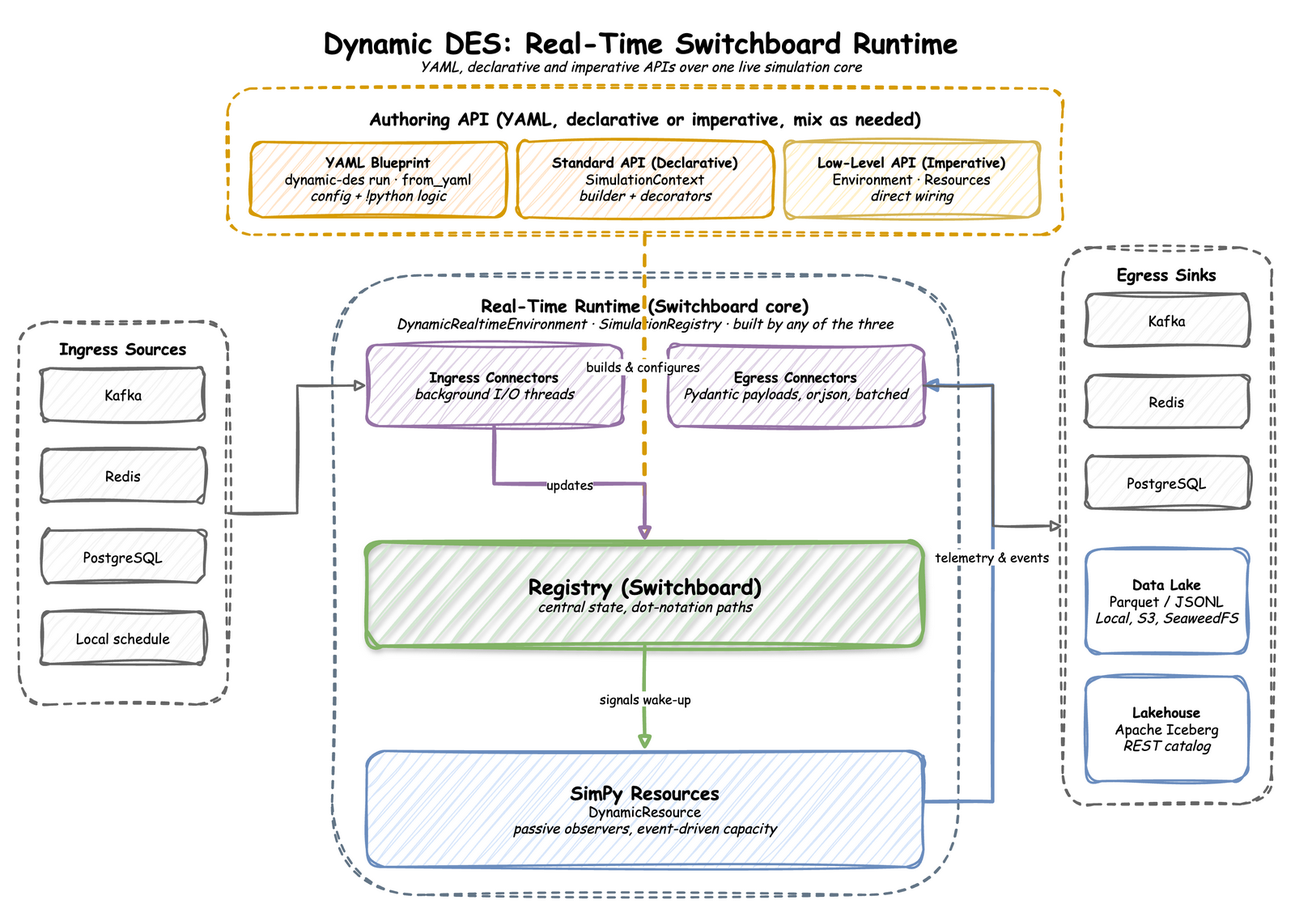
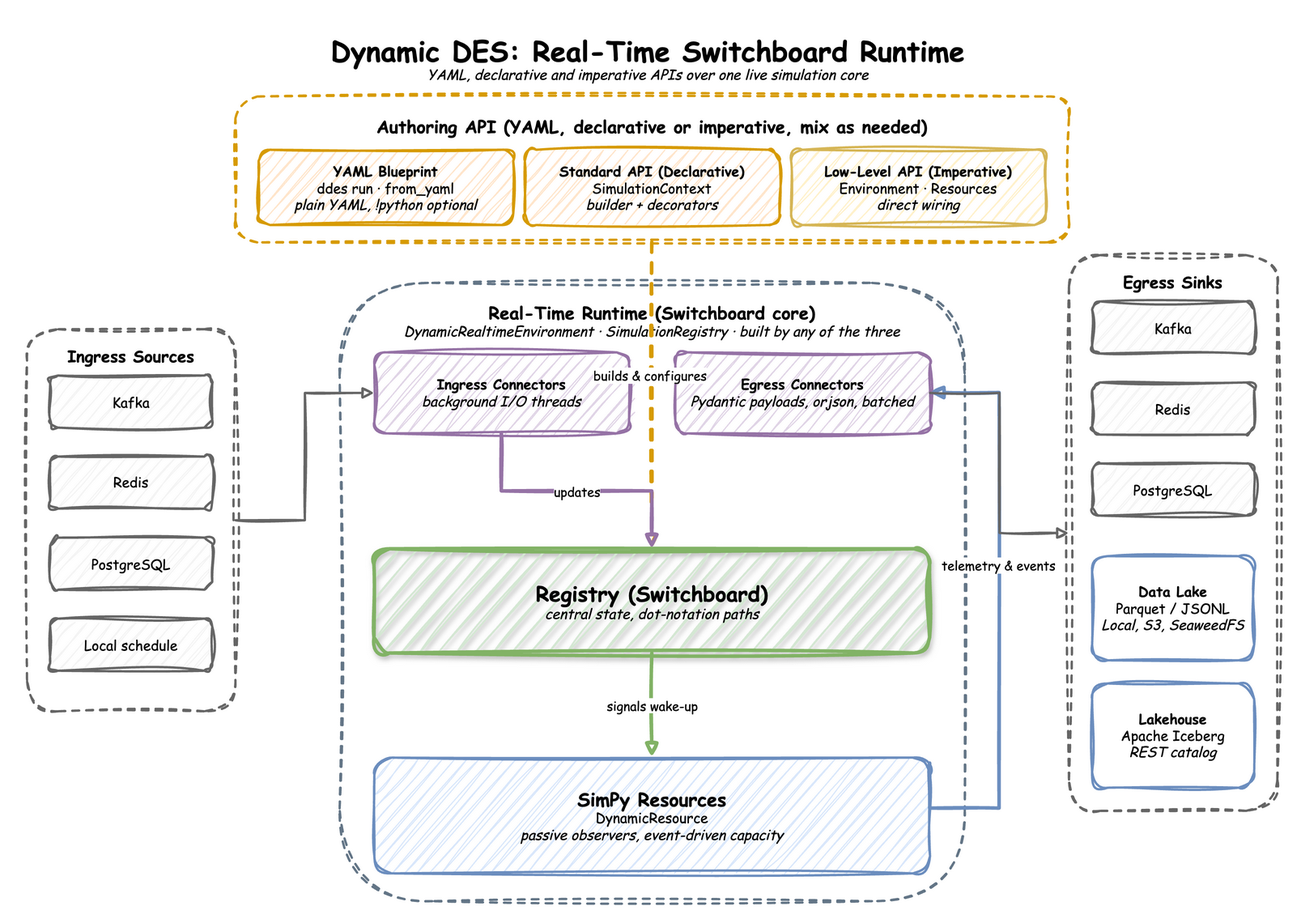
docs: one Part 2 tutorial page, examples table, new introduction and corrections
Also updates the architecture diagram for ddes and plain YAML.

Changed region(s): [[0.0, 0.0309, 1.0, 0.9885], [0.9688, 0.278, 1.0, 0.3089]]

diff --git a/README.md b/README.md
@@ -6,13 +6,15 @@
 [![Python Versions](https://img.shields.io/pypi/pyversions/dynamic-des.svg)](https://pypi.org/project/dynamic-des/)
 [![License: MIT](https://img.shields.io/badge/License-MIT-yellow.svg)](https://opensource.org/licenses/MIT)
 
-**Real-time SimPy control plane for event-driven digital twins.**
+**Real-time SimPy simulations that take parameter changes while they run and write their events and telemetry to streams, databases, files and Iceberg tables.**
 
 <div align="center">
   <img src="https://raw.githubusercontent.com/jaehyeon-kim/dynamic-des/main/docs/assets/architecture.png" alt="Dynamic DES architecture" width="900" />
 </div>
 
-Dynamic DES bridges the gap between static discrete-event simulations and the live world. It allows you to update simulation parameters (arrivals, service times, capacities) and stream telemetry via **Kafka**, **Redis**, or **PostgreSQL** without stopping the simulation. Beyond live streaming, it transforms static models into **synchronized forecasting engines**, enabling rapid historical data generation and future state prediction. Export compressed, chunked datasets (Parquet, JSONL) directly to local storage or **S3-compatible storage such as AWS S3 or SeaweedFS** using PyArrow VFS, complete with strict schema drift prevention. Or commit the same run into an **Apache Iceberg** table, so what comes out is queryable rather than a folder someone still has to register.
+Dynamic DES runs [SimPy](https://simpy.readthedocs.io/) discrete-event simulations in step with the system clock, or as fast as the machine allows. A running simulation takes parameter changes (arrival rates, service times, capacities) from **Kafka**, **Redis**, **PostgreSQL** or a timed scenario, without stopping. Its task events and telemetry go to the sinks you attach: **Kafka**, **Redis**, **PostgreSQL**, **Parquet** or **JSONL** files on local disk or **S3-compatible storage** such as AWS S3 or SeaweedFS, or an **Apache Iceberg** table through a REST catalog.
+
+A simulation can be written three ways: with the low-level `DynamicRealtimeEnvironment`, with the declarative `SimulationContext` builder, or as a plain **YAML blueprint** run with the `ddes` command. One run can generate backdated history at full speed and then continue in real time, so the same model can fill a data lake and then feed a live system.
 
 ## Key Features
 
@@ -28,6 +30,7 @@ Dynamic DES bridges the gap between static discrete-event simulations and the li
 - **🗄 Data Lake Ingestion**: Native PyArrow VFS integration for fast chunked writing (Parquet/JSONL) directly to object storage, with built-in schema inference and drift enforcement.
 - **🧊 Lakehouse Ingestion**: Append straight into an Apache Iceberg table through an Iceberg REST catalog, with one commit per flush so the snapshot count stays under your control.
 - **🦆 Pydantic Duck-Typing**: Seamlessly publish strictly-typed Pydantic V2 models straight from your simulation logic.
+- **📊 System Observability**: Built-in lag monitoring to track simulation drift from real-world time.
 - **🌍 Domain Agnostic**: Perfect for factory floors, crypto trading bots, or RPG game state management.
 
 ## Installation
@@ -155,7 +158,7 @@ The control dashboard lets you update simulation parameters live and watch the t
 
 ## Three Ways to Write a Simulation
 
-A simulation can be written with the low-level API, with the declarative API, or as a YAML blueprint. All three build the same `SimParameter` and run on the same `DynamicRealtimeEnvironment`, so the registry paths, the records and the connectors are the same whichever way you choose. [Ways to write a simulation](https://jaehyeon.me/dynamic-des/latest/architecture/overview/) compares them, and the tutorials build one factory in each: [Part 1: Low-level API](https://jaehyeon.me/dynamic-des/latest/tutorials/low-level/), [Part 2: Declarative API](https://jaehyeon.me/dynamic-des/latest/tutorials/01-first-factory/) and [Part 3: YAML](https://jaehyeon.me/dynamic-des/latest/tutorials/yaml/).
+A simulation can be written with the low-level API, with the declarative API, or as a YAML blueprint. All three build the same `SimParameter` and run on the same `DynamicRealtimeEnvironment`, so the registry paths, the records and the connectors are the same whichever way you choose. [Ways to write a simulation](https://jaehyeon.me/dynamic-des/latest/architecture/overview/) compares them, and the tutorials build one factory in each: [Part 1: Low-level API](https://jaehyeon.me/dynamic-des/latest/tutorials/low-level/), [Part 2: Declarative API](https://jaehyeon.me/dynamic-des/latest/tutorials/declarative/) and [Part 3: YAML](https://jaehyeon.me/dynamic-des/latest/tutorials/yaml/).
 
 ### Declarative API
 
@@ -320,7 +323,7 @@ Used for discrete task lifecycle events (e.g., a part arriving, entering a queue
 
 ## More Examples
 
-For more examples, including implementations using **Kafka** providers, please explore the [examples](./examples/) folder, which has its own README naming what to install and which odctl profile each one needs.
+The [examples](./examples/) folder has the examples written three ways, in `imperative/`, `declarative/` and `yaml/`. Backfill then live has no `imperative/` version, and `yaml/advanced/` has one YAML-only example. Its README names what to install and which odctl profile each one needs.
 
 ## Core Concepts
 
@@ -330,7 +333,7 @@ For more examples, including implementations using **Kafka** providers, please e
 
 Instead of resources polling Kafka directly, the architecture is split into three layers:
 
-1.  **Connectors (Ingress/Egress)**: Background threads handle heavy I/O (Kafka, Redis).
+1.  **Connectors (Ingress/Egress)**: Background threads handle the I/O: Kafka, Redis and PostgreSQL in both directions, and Parquet, JSONL and Iceberg for egress.
 2.  **Registry (Switchboard)**: A centralized state manager that flattens data into dot-notation paths.
 3.  **Resources (SimPy Objects)**: Passive observers that "wake up" only when the Registry signals a change.
 
@@ -353,7 +356,7 @@ To handle high throughput, the `EgressMixIn` uses:
 For full documentation, architecture details, and API reference, visit:
 [https://jaehyeon.me/dynamic-des/](https://jaehyeon.me/dynamic-des/).
 
-- **Tutorials**: [Part 1: Low-level API](https://jaehyeon.me/dynamic-des/latest/tutorials/low-level/), [Part 2: Declarative API](https://jaehyeon.me/dynamic-des/latest/tutorials/01-first-factory/), [Part 3: YAML](https://jaehyeon.me/dynamic-des/latest/tutorials/yaml/).
+- **Tutorials**: [Part 1: Low-level API](https://jaehyeon.me/dynamic-des/latest/tutorials/low-level/), [Part 2: Declarative API](https://jaehyeon.me/dynamic-des/latest/tutorials/declarative/), [Part 3: YAML](https://jaehyeon.me/dynamic-des/latest/tutorials/yaml/).
 - **Core Architecture**: [Overview](https://jaehyeon.me/dynamic-des/latest/architecture/overview/), [Low-level API](https://jaehyeon.me/dynamic-des/latest/architecture/low-level/), [Declarative API](https://jaehyeon.me/dynamic-des/latest/architecture/context/), [YAML Blueprints](https://jaehyeon.me/dynamic-des/latest/architecture/yaml/), and the runtime: [Realtime Environment](https://jaehyeon.me/dynamic-des/latest/architecture/environment/), [Registry and Live Parameters](https://jaehyeon.me/dynamic-des/latest/architecture/registry/), [Time](https://jaehyeon.me/dynamic-des/latest/architecture/time/), [Resources and Containers](https://jaehyeon.me/dynamic-des/latest/architecture/resources/), [Connectors](https://jaehyeon.me/dynamic-des/latest/architecture/connectors/), [Records and Telemetry](https://jaehyeon.me/dynamic-des/latest/architecture/records/), [Batching and Delivery](https://jaehyeon.me/dynamic-des/latest/architecture/batching/).
 - **Guides**: [Backfill Then Go Live](https://jaehyeon.me/dynamic-des/latest/guides/backfill-then-live/), [Change Parameters While a Simulation Runs](https://jaehyeon.me/dynamic-des/latest/guides/live-parameters/), [YAML Blueprints](https://jaehyeon.me/dynamic-des/latest/guides/yaml-blueprints/), and the connector guides.
 - **Examples**: one page per example, with the declarative, low-level and YAML versions in tabs, starting with the [local example](https://jaehyeon.me/dynamic-des/latest/examples/local/).
@@ -365,9 +368,12 @@ Blog posts that use this library:
 - [Building a Real-Time Industrial Digital Twin with Apache Flink and Online Machine Learning](https://jaehyeon.me/blog/2026-04-21-digital-twin-online-machine-learning/): a Flink and Kotlin pipeline that detects concept drift in a hot strip mill and corrects for roller wear.
 - [Why Digital Twins Are Rewiring Industry 4.0](https://jaehyeon.me/blog/2026-04-23-digital-twin-industry-4-0/): the architectural layers that separate traditional simulations, operational twins and event-driven hybrid pipelines.
 - [Building an Event-Driven Hybrid Digital Twin with dynamic-des](https://jaehyeon.me/blog/2026-04-28-digital-twin-dynamic-des/): the Switchboard pattern, mutable resources and dynamic topic routing behind this library.
-- [One Simulation, Two Pipelines: Batch Training and Live Inference with Dynamic DES v0.8.1](https://jaehyeon.me/blog/2026-05-25-dynamic-des-parquet-support/): one SimPy codebase that writes batch Parquet for training and streams live Kafka events for inference.
-- [Dynamic DES v0.11.1: A Declarative API with Postgres and Redis Connectors](https://jaehyeon.me/blog/2026-07-17-dynamic-des-declarative-connectors/): what the declarative `SimulationContext` API changed, and the Postgres and Redis connectors it added.
+- [One Simulation, Two Pipelines: Batch Training and Live Inference with Dynamic DES](https://jaehyeon.me/blog/2026-05-25-dynamic-des-parquet-support/): one SimPy codebase that writes batch Parquet for training and streams live Kafka events for inference.
+- [Dynamic DES: A Declarative API with Postgres and Redis Connectors](https://jaehyeon.me/blog/2026-07-17-dynamic-des-declarative-connectors/): what the declarative `SimulationContext` API changed, and the Postgres and Redis connectors it added.
 - [Building an Agentic Analytics System over an Iceberg Lakehouse](https://jaehyeon.me/blog/2026-07-18-agentic-analytics-system/): a local analytics stack that uses this library to generate the lakehouse data an agent queries.
+- [Change Data Capture on a Simulated Online Shop with Debezium and Kafka Connect](https://jaehyeon.me/blog/2026-10-01-ecommerce-cdc-debezium-kafka-connect/): a simulated shop writes to PostgreSQL, and Debezium streams every change to Kafka and S3.
+- [Keeping Game Leaderboards Up to Date in Real Time with Kafka and Flink SQL](https://jaehyeon.me/blog/2026-10-02-game-leaderboard-flink-sql/): a simulated mobile game sends scores to Kafka, and Flink SQL keeps top 10 leaderboards in PostgreSQL.
+- [Defining Data-Streaming Simulations in YAML, Without Writing Python](https://jaehyeon.me/blog/2026-10-06-simulations-in-yaml-dynamic-des/): YAML blueprints, the `ddes` command and the three ways to write a simulation.
 
 ## License
 

diff --git a/docs/index.md b/docs/index.md
@@ -1,8 +1,8 @@
 # Dynamic DES
 
-**Dynamic DES** is a high-performance, real-time control plane for [SimPy](https://simpy.readthedocs.io/).
+Dynamic DES runs [SimPy](https://simpy.readthedocs.io/) discrete-event simulations in step with the system clock, or as fast as the machine allows. A running simulation takes parameter changes (arrival rates, service times, capacities) from **Kafka**, **Redis**, **PostgreSQL** or a timed scenario, without stopping. Its task events and telemetry go to the sinks you attach: **Kafka**, **Redis**, **PostgreSQL**, **Parquet** or **JSONL** files on local disk or **S3-compatible storage** such as AWS S3 or SeaweedFS, or an **Apache Iceberg** table through a REST catalog.
 
-It bridges the gap between static discrete-event simulations and the live world by allowing you to update simulation parameters (arrivals, service times, capacities) and stream telemetry and events via **Kafka**, **Redis**, or **PostgreSQL** without stopping the simulation. It also transforms your models into **synchronized forecasting engines** by fast-forwarding through simulation time to predict future states or backfill Data Lakes with schema-enforced **Parquet** or **JSONL** files directly to local storage or **S3-compatible storage such as AWS S3 or SeaweedFS** using PyArrow VFS, or commit the same run into an **Apache Iceberg** table through a REST catalog.
+A simulation can be written three ways: with the low-level `DynamicRealtimeEnvironment`, with the declarative `SimulationContext` builder, or as a plain **YAML blueprint** run with the `ddes` command. One run can generate backdated history at full speed and then continue in real time, so the same model can fill a data lake and then feed a live system.
 
 <div align="center">
   <img src="assets/architecture.png" alt="Dynamic DES architecture" width="900" />
@@ -13,15 +13,19 @@ It bridges the gap between static discrete-event simulations and the live world 
 ## Key Features
 
 - **⚡ Real-Time Control**: Synchronize SimPy with the system clock using `DynamicRealtimeEnvironment`.
-- **🔗 Builder Pattern**: Construct digital twins declaratively with `SimulationContext` and decorators like `@app.task`.
-- **🧾 YAML Blueprints**: Declare parameters, connectors and timed experiments in a YAML file and run it with `ddes run`, with logic kept in Python and referenced through `!python`.
+- **🧭 Three Ways to Write a Simulation**: The low-level `DynamicRealtimeEnvironment`, the declarative `SimulationContext` builder, or a YAML blueprint. All three build the same parameters and run on the same environment.
+- **🧾 YAML Blueprints**: Declare parameters, connectors, tasks, telemetry and timed experiments in a plain YAML file and run it with `ddes run`. Logic that YAML cannot express stays in Python and is referenced through `!python`.
+- **⏩ Backfill Then Go Live**: One run generates backdated history unpaced, then switches to real time at `go_live_at`, with one seed and one seam.
+- **🔀 Several Sinks per Run**: Attach a stream sink and a lake sink to one run, each with its own `when` predicate, `batch_size` and `flush_interval` on `add_egress`.
 - **🔗 Dynamic Registry**: Dynamic, path-based updates (e.g., `Line_A.arrival.standard.rate`) that trigger instant logic changes.
+- **🚀 High Throughput**: Optimized to handle high throughput using `orjson` and local batching.
 - **🛡 Enterprise Ready**: Native `**kwargs` passthrough for SASL, mTLS, OAuth, and AWS IAM Kafka clusters.
-- **📦 Pluggable Serialization**: Stream lightweight JSON by default, or map specific ML topics to lazy-loaded **Avro/Schema Registry** serializers.
-- **🗄 Data Lake Ready**: Write chunked Parquet and JSONL datasets directly to object storage via PyArrow VFS, with built-in schema inference and drift prevention.
-- **🧊 Lakehouse Ready**: Append straight into an Apache Iceberg table through an Iceberg REST catalog, with one commit per flush so the snapshot count stays under your control.
+- **📦 Pluggable Serialization**: Stream lightweight JSON by default, or map specific ML topics to lazy-loaded **Avro/Schema Registry** serializers (Confluent & AWS Glue).
+- **🗄 Data Lake Ingestion**: Native PyArrow VFS integration for fast chunked writing (Parquet/JSONL) directly to object storage, with built-in schema inference and drift enforcement.
+- **🧊 Lakehouse Ingestion**: Append straight into an Apache Iceberg table through an Iceberg REST catalog, with one commit per flush so the snapshot count stays under your control.
 - **🦆 Pydantic Duck-Typing**: Seamlessly publish strictly-typed Pydantic V2 models straight from your simulation logic.
 - **📊 System Observability**: Built-in lag monitoring to track simulation drift from real-world time.
+- **🌍 Domain Agnostic**: Perfect for factory floors, crypto trading bots, or RPG game state management.
 
 ---
 
@@ -30,10 +34,7 @@ It bridges the gap between static discrete-event simulations and the live world 
 * **[Getting Started](getting-started.md)**: Install, download the examples, and start the containers they need.
 * **Tutorials**, one factory written three ways:
     * **[Part 1: Low-level API](tutorials/low-level.md)**: Build the factory on `DynamicRealtimeEnvironment`, with SimPy processes started by `env.process`.
-    * **Part 2: Declarative API**:
-        * **[1. Your First Factory (Local)](tutorials/01-first-factory.md)**: Define a local factory lifecycle.
-        * **[2. Adding Randomness and Rules](tutorials/02-distributions-resources.md)**: Add stochastic distributions and ingress scheduled capacity updates.
-        * **[3. Going Distributed (Kafka)](tutorials/03-connecting-kafka.md)**: Connect standard simulation logic to live Kafka streams.
+    * **[Part 2: Declarative API](tutorials/declarative.md)**: Build the factory with `SimulationContext`, add randomness and scheduled capacity changes, then connect it to Kafka.
     * **[Part 3: YAML](tutorials/yaml.md)**: Write the same factory as a blueprint and run it with `ddes run`.
 * **Core Architecture**:
     * **[Overview](architecture/overview.md)**: The three ways to write a simulation, and the parameters and environment they share.
@@ -44,5 +45,5 @@ It bridges the gap between static discrete-event simulations and the live world 
     * **Features**: [Backfill Then Go Live in One Run](guides/backfill-then-live.md), [Change Parameters While a Simulation Runs](guides/live-parameters.md).
     * **YAML**: [YAML Blueprints, from First File to Connectors](guides/yaml-blueprints.md).
 * **Advanced**: [Advanced YAML: Custom Logic with `!python`](guides/yaml-advanced.md), [Multi-Resource Handoffs](guides/multi-resource-handoffs.md), [Preemptive Machine Breakdowns](guides/preemptive-breakdowns.md), [Absolute Edge Cases (Dynamic Topology)](guides/dynamic-topology.md).
-* **Examples**, every script in the `examples/` folder, one page each with a tab for the declarative API, the low-level API and the YAML blueprint: [Local](examples/local.md), [Kafka](examples/kafka.md), [Parquet](examples/parquet.md), [Iceberg](examples/iceberg.md), [Postgres](examples/postgres.md), [Redis](examples/redis.md), [Backfill Then Go Live](examples/backfill-live.md), [Orders with Line Items (Advanced YAML)](examples/advanced-postgres-orders.md).
+* **Examples**, one page per example, with a tab for each way it is written. Backfill Then Go Live has declarative and YAML tabs, and the advanced orders example is YAML only: [Local](examples/local.md), [Kafka](examples/kafka.md), [Parquet](examples/parquet.md), [Iceberg](examples/iceberg.md), [Postgres](examples/postgres.md), [Redis](examples/redis.md), [Backfill Then Go Live](examples/backfill-live.md), [Orders with Line Items (Advanced YAML)](examples/advanced-postgres-orders.md).
 * **[API Reference](api.md)**: Technical reference for all public classes.

diff --git a/docs/getting-started.md b/docs/getting-started.md
@@ -166,14 +166,20 @@ Every declarative example has a YAML twin, in the YAML tab of its [example page]
 The control dashboard lets you update simulation parameters live and watch the telemetry react without restarting the run:
 
 <div align="center">
-  <img src="assets/dashboard-preview.gif" alt="Live parameter updates from the control dashboard" width="800" />
+  <img src="../assets/dashboard-preview.gif" alt="Live parameter updates from the control dashboard" width="800" />
 </div>
 
 ## Build Your Own
 
-Ready to build your own system? We have prepared a gallery of real-world use cases to demonstrate how to architect your simulation.
+Each example is written three ways: with the low-level API, with the declarative API and as a YAML blueprint. Its page shows the versions in tabs. Backfill Then Go Live has no low-level version, and the advanced orders example exists only as YAML.
 
-- [Local Simulation](examples/local.md): A dependency-free approach to testing, also as a YAML blueprint with no Python.
-- [Kafka Digital Twin](examples/kafka.md): A full manufacturing architecture with dynamic queues.
-- [Fast-Forward to Parquet](examples/parquet.md): Batch processing simulation data into Parquet.
-- [Fast-Forward to Iceberg](examples/iceberg.md): The same run, committed into an Iceberg table.
+| Example | What it shows | Low-level | Declarative | YAML |
+|---|---|---|---|---|
+| [Local Simulation](examples/local.md) | prints events and telemetry, with no container | [`local_example.py`](https://github.com/jaehyeon-kim/dynamic-des/blob/main/examples/imperative/local_example.py) | [`local_example.py`](https://github.com/jaehyeon-kim/dynamic-des/blob/main/examples/declarative/local_example.py) | [`local.yaml`](https://github.com/jaehyeon-kim/dynamic-des/blob/main/examples/yaml/local.yaml) |
+| [Kafka Digital Twin](examples/kafka.md) | takes updates from Kafka and publishes events and telemetry to Kafka | [`kafka_example.py`](https://github.com/jaehyeon-kim/dynamic-des/blob/main/examples/imperative/kafka_example.py) | [`kafka_example.py`](https://github.com/jaehyeon-kim/dynamic-des/blob/main/examples/declarative/kafka_example.py) | [`kafka.yaml`](https://github.com/jaehyeon-kim/dynamic-des/blob/main/examples/yaml/kafka.yaml) |
+| [Fast-Forward to Parquet](examples/parquet.md) | a week generated at `factor=0.0`, written to Parquet | [`parquet_example.py`](https://github.com/jaehyeon-kim/dynamic-des/blob/main/examples/imperative/parquet_example.py) | [`parquet_example.py`](https://github.com/jaehyeon-kim/dynamic-des/blob/main/examples/declarative/parquet_example.py) | [`parquet.yaml`](https://github.com/jaehyeon-kim/dynamic-des/blob/main/examples/yaml/parquet.yaml) |
+| [Fast-Forward to Iceberg](examples/iceberg.md) | a day generated at `factor=0.0`, appended to an Iceberg table | [`iceberg_example.py`](https://github.com/jaehyeon-kim/dynamic-des/blob/main/examples/imperative/iceberg_example.py) | [`iceberg_example.py`](https://github.com/jaehyeon-kim/dynamic-des/blob/main/examples/declarative/iceberg_example.py) | [`iceberg.yaml`](https://github.com/jaehyeon-kim/dynamic-des/blob/main/examples/yaml/iceberg.yaml) |
+| [Relational DB (Postgres)](examples/postgres.md) | writes orders to PostgreSQL and takes updates from a table | [`postgres_example.py`](https://github.com/jaehyeon-kim/dynamic-des/blob/main/examples/imperative/postgres_example.py) | [`postgres_example.py`](https://github.com/jaehyeon-kim/dynamic-des/blob/main/examples/declarative/postgres_example.py) | [`postgres.yaml`](https://github.com/jaehyeon-kim/dynamic-des/blob/main/examples/yaml/postgres.yaml) |
+| [In-Memory Store (Redis)](examples/redis.md) | writes to a Redis Stream and takes updates from Pub/Sub | [`redis_example.py`](https://github.com/jaehyeon-kim/dynamic-des/blob/main/examples/imperative/redis_example.py) | [`redis_example.py`](https://github.com/jaehyeon-kim/dynamic-des/blob/main/examples/declarative/redis_example.py) | [`redis.yaml`](https://github.com/jaehyeon-kim/dynamic-des/blob/main/examples/yaml/redis.yaml) |
+| [Backfill Then Go Live](examples/backfill-live.md) | backdated history to Parquet, then live to Kafka | no | [`backfill_live_example.py`](https://github.com/jaehyeon-kim/dynamic-des/blob/main/examples/declarative/backfill_live_example.py) | [`backfill_live.yaml`](https://github.com/jaehyeon-kim/dynamic-des/blob/main/examples/yaml/backfill_live.yaml) |
+| [Orders with Line Items (Advanced YAML)](examples/advanced-postgres-orders.md) | orders with line items, from a blueprint with one Python function | no | no | [`postgres_orders.yaml`](https://github.com/jaehyeon-kim/dynamic-des/blob/main/examples/yaml/advanced/postgres_orders.yaml) |

diff --git a/docs/guides/yaml-advanced.md b/docs/guides/yaml-advanced.md
@@ -25,7 +25,7 @@ A setting that is a value needs no Python. Environment variables, relative times
 
 `!python module.attribute` imports `module` and returns its `attribute`. The reference can name anything: a function, a class, a dictionary or a constant.
 
-The longest prefix that is a module is imported, and the rest is read as attributes, so `pkg.module.func` and `module.Class.attribute` both work. The folder of the YAML file is put at the front of `sys.path` before anything is resolved, so a module beside the blueprint is found from any working directory. Other modules are found on the normal `sys.path`, which includes installed packages. `${VAR}` is replaced inside a reference too, so `!python ${LOGIC}.ticker` picks the module from the environment.
+The longest prefix that is a module is imported, and the rest is read as attributes, so `pkg.module.func` and `module.Class.attribute` both work. The folder of the YAML file is added to the front of `sys.path`, unless it is already on it, before anything is resolved, so a module beside the blueprint is found from any working directory. Other modules are found on the normal `sys.path`, which includes installed packages. `${VAR}` is replaced inside a reference too, so `!python ${LOGIC}.ticker` picks the module from the environment.
 
 Every reference is resolved and checked when the file is loaded, so a wrong reference fails before the run starts, with the file and line.
 
@@ -145,7 +145,7 @@ def arrivals(context, product):
 
 ## 3. Routers, serializers and connector classes
 
-A router replaces the default destination of every record. `topic_router` on Kafka, `path_router` on Parquet and JSONL, and `table_router` on Iceberg each take a function that receives a record and returns its destination, or None to drop it. With a router, records are written as the router leaves them, so flattening events and dropping telemetry become the router's job. Kafka also leaves topic creation to the caller, because only the router knows which topics it uses. The hot rolling twin below sends every record to one of four topics with `topic_router: !python routing.custom_topic_router`.
+A router replaces the default destination of every record. `path_router` on Parquet and JSONL and `table_router` on Iceberg each take a function that receives a record and returns its destination, or None to drop it. `topic_router` on Kafka must always return a topic. To drop records before Kafka, give the sink a `when` predicate. With a router, records are written as the router leaves them, so flattening events and dropping telemetry become the router's job. Kafka also leaves topic creation to the caller, because only the router knows which topics it uses. The hot rolling twin below sends every record to one of four topics with `topic_router: !python routing.custom_topic_router`.
 
 A serializer is an object, so it is built in a module and referenced. `KafkaEgress` takes `default_serializer` and `topic_serializers`, for example `default_serializer: !python serializers.AVRO`, where `serializers.py` builds a `ConfluentAvroSerializer` with the registry URL and the schema.
 

diff --git a/docs/architecture/overview.md b/docs/architecture/overview.md
@@ -9,15 +9,15 @@ Dynamic DES provides three ways to build your event-driven simulations, allowing
 | Feature | YAML Blueprint | Standard API (Declarative) | Low-Level API (Imperative) |
 |---|---|---|---|
 | **Entry Point** | `ddes run` or `SimulationContext.from_yaml` | `SimulationContext` | `DynamicRealtimeEnvironment` |
-| **Philosophy** | Declare the configuration in a file, and reference Python for the logic. | Define *what* the system looks like and use decorators for task lifecycles. | Define *how* every event and resource operates step-by-step. |
-| **Boilerplate** | None for configuration. Logic is Python referenced with `!python`. | Low (Automatic event emission, resource requesting, and sampling). | High (Manual queueing, starting, timing out, and releasing). |
+| **Philosophy** | Declare the simulation in a file. Python is referenced with `!python` only for logic YAML cannot express. | Define *what* the system looks like and use decorators for task lifecycles. | Define *how* every event and resource operates step-by-step. |
+| **Boilerplate** | None. Logic YAML cannot express is Python referenced with `!python`. | Low (Automatic event emission, resource requesting, and sampling). | High (Manual queueing, starting, timing out, and releasing). |
 | **Typical Use Case** | Varying parameters, connectors and timed experiments between runs without editing code. | Building standard digital twins, historical data generation, and forecasting pipelines. | Edge-case scenarios requiring dynamic topology changes mid-run. |
 
 The three are layers, not alternatives. A blueprint is built through the Standard API's builder methods, and the builder runs on the Low-Level API, so a blueprint can reference Python written for the builder, and a builder process can use the environment directly.
 
 ### Which to choose
 
-* **YAML Blueprint** when the configuration is what changes between runs: rates, capacities, connectors, batching or a scripted experiment. The file is easy to review and diff, and it has a built-in scenario of timed changes on the simulation clock. Logic stays in a Python module beside the file.
+* **YAML Blueprint** when the configuration is what changes between runs: rates, capacities, connectors, batching or a scripted experiment. The file is easy to review and diff, and it has a built-in scenario of timed changes on the simulation clock. Logic that YAML cannot express goes in a Python module beside the file.
 * **Standard API** when the logic is most of the program and you want it in one Python file, or when you build the configuration in code, for example from a loop.
 * **Low-Level API** when you need what the builder does not do, such as resources created mid-run or full control of every event.
 

diff --git a/docs/architecture/time.md b/docs/architecture/time.md
@@ -79,7 +79,7 @@ Three cases are worth stating explicitly.
 * **`go_live_at` in the past but after `logical_start_time`**: the normal backfill case, and also what you get if the history takes a while to generate. The logical clock keeps whatever offset from the wall clock it had at the switch, and holds it for the rest of the run. Simulated seconds pass at one per real second, but the timestamps stay behind the wall clock by that offset.
 * **A run that ends before `go_live_at`**: nothing happens, the run stays unpaced and ends as it would have. `go_live_at` schedules no event of its own, so it never holds a finished simulation open.
 
-`go_live_at` is read against the same clock as `logical_start_time`, so both must be naive datetimes or both timezone-aware. Mixing them raises a `ValueError` when the environment is built, rather than failing later: at construction for `DynamicRealtimeEnvironment`, and at `run()` for `SimulationContext`.
+`go_live_at` is read against the same clock as `logical_start_time`, so both must be naive datetimes or both timezone-aware. Mixing them raises a `ValueError` when the environment is built, rather than failing later: at construction for `DynamicRealtimeEnvironment`, and at `run()` for `SimulationContext`. A YAML blueprint is rejected when the file is loaded, with the line of `go_live_at`.
 
 ---
 

diff --git a/docs/examples/iceberg.md b/docs/examples/iceberg.md
@@ -32,7 +32,7 @@ A day of a production line, generated at `factor=0.0` and appended to an Apache 
     odctl down catalog --volumes
     ```
 
-    `ICEBERG_URI`, `ICEBERG_WAREHOUSE`, `ICEBERG_NAMESPACE`, `S3_ENDPOINT`, `S3_ACCESS_KEY`, and `S3_SECRET_KEY` override the catalog and credentials.
+    `ICEBERG_URI`, `ICEBERG_WAREHOUSE`, `ICEBERG_NAMESPACE`, `S3_ENDPOINT`, `S3_ACCESS_KEY`, `S3_SECRET_KEY` and `S3_REGION` override the catalog and credentials.
 
     Running it twice appends to the same table rather than replacing it, which is what an Iceberg table is for. Use `odctl down catalog --volumes` to start from nothing.
 
@@ -250,7 +250,7 @@ A day of a production line, generated at `factor=0.0` and appended to an Apache 
     odctl down catalog --volumes
     ```
 
-    `ICEBERG_URI`, `ICEBERG_WAREHOUSE`, `ICEBERG_NAMESPACE`, `S3_ENDPOINT`, `S3_ACCESS_KEY`, and `S3_SECRET_KEY` override the catalog and credentials.
+    `ICEBERG_URI`, `ICEBERG_WAREHOUSE`, `ICEBERG_NAMESPACE`, `S3_ENDPOINT`, `S3_ACCESS_KEY`, `S3_SECRET_KEY` and `S3_REGION` override the catalog and credentials.
 
     Running it twice appends to the same table rather than replacing it, which is what an Iceberg table is for. Use `odctl down catalog --volumes` to start from nothing.
 

diff --git a/examples/README.md b/examples/README.md
@@ -46,11 +46,13 @@ Stop a profile with `odctl down <profile> --volumes`. `odctl list -d` shows ever
 
 Kafka and Redis are the two whose profile names are not what you would guess, because odctl ships a one-broker Kafka as `kafka-lite` and uses Valkey rather than Redis.
 
-## Two API styles, same simulation
+## Three ways, same simulation
 
 `declarative/` uses `SimulationContext`, the builder, where infrastructure is declared by chaining and the simulation logic hangs off decorators.
 
 `imperative/` uses `DynamicRealtimeEnvironment` directly, wiring the registry, resources and connectors by hand. It is the lower-level API the builder is written on.
+
+`yaml/` holds the same simulations as YAML blueprints, described in the next section.
 
 Most pairs run the same simulation, so reading one against the other shows what the builder does for you. The local pair is the exception and the two differ on purpose: `declarative/local_example.py` runs `Factory_A` for 60 seconds with no ingress, while `imperative/local_example.py` runs `Line_A` for 30 seconds and uses `LocalIngress` to schedule two capacity changes.
 

diff --git a/docs/architecture/records.md b/docs/architecture/records.md
@@ -25,7 +25,7 @@ Events, from `@app.task` or `publish_event`, are used for discrete task lifecycl
 ## Field Values
 
 * `sim_ts` is rounded to three decimal places and is always a float, so simulation time 0 is published as `0.0`.
-* `key` and `path_id` are converted to strings.
+* `key` and `path_id` must be strings. Anything else raises a Pydantic `ValidationError`.
 * `value` is converted to plain JSON values before any egress sees it. A Pydantic V2 model becomes a dictionary, a datetime becomes an ISO string, and a NaN or an infinity becomes `None`.
 
 ---
